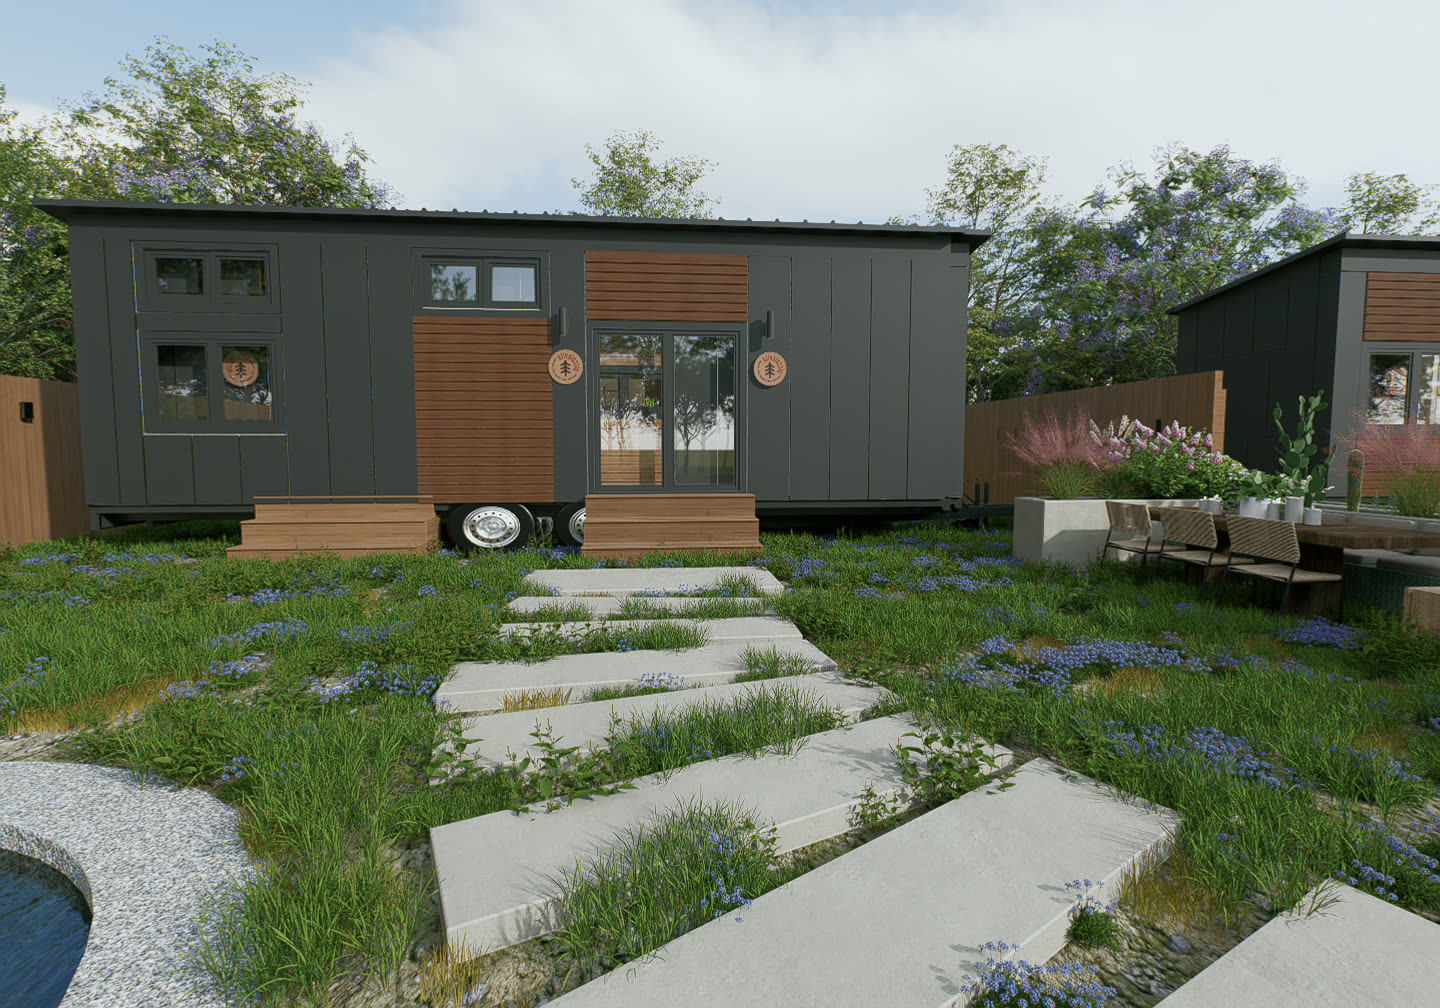
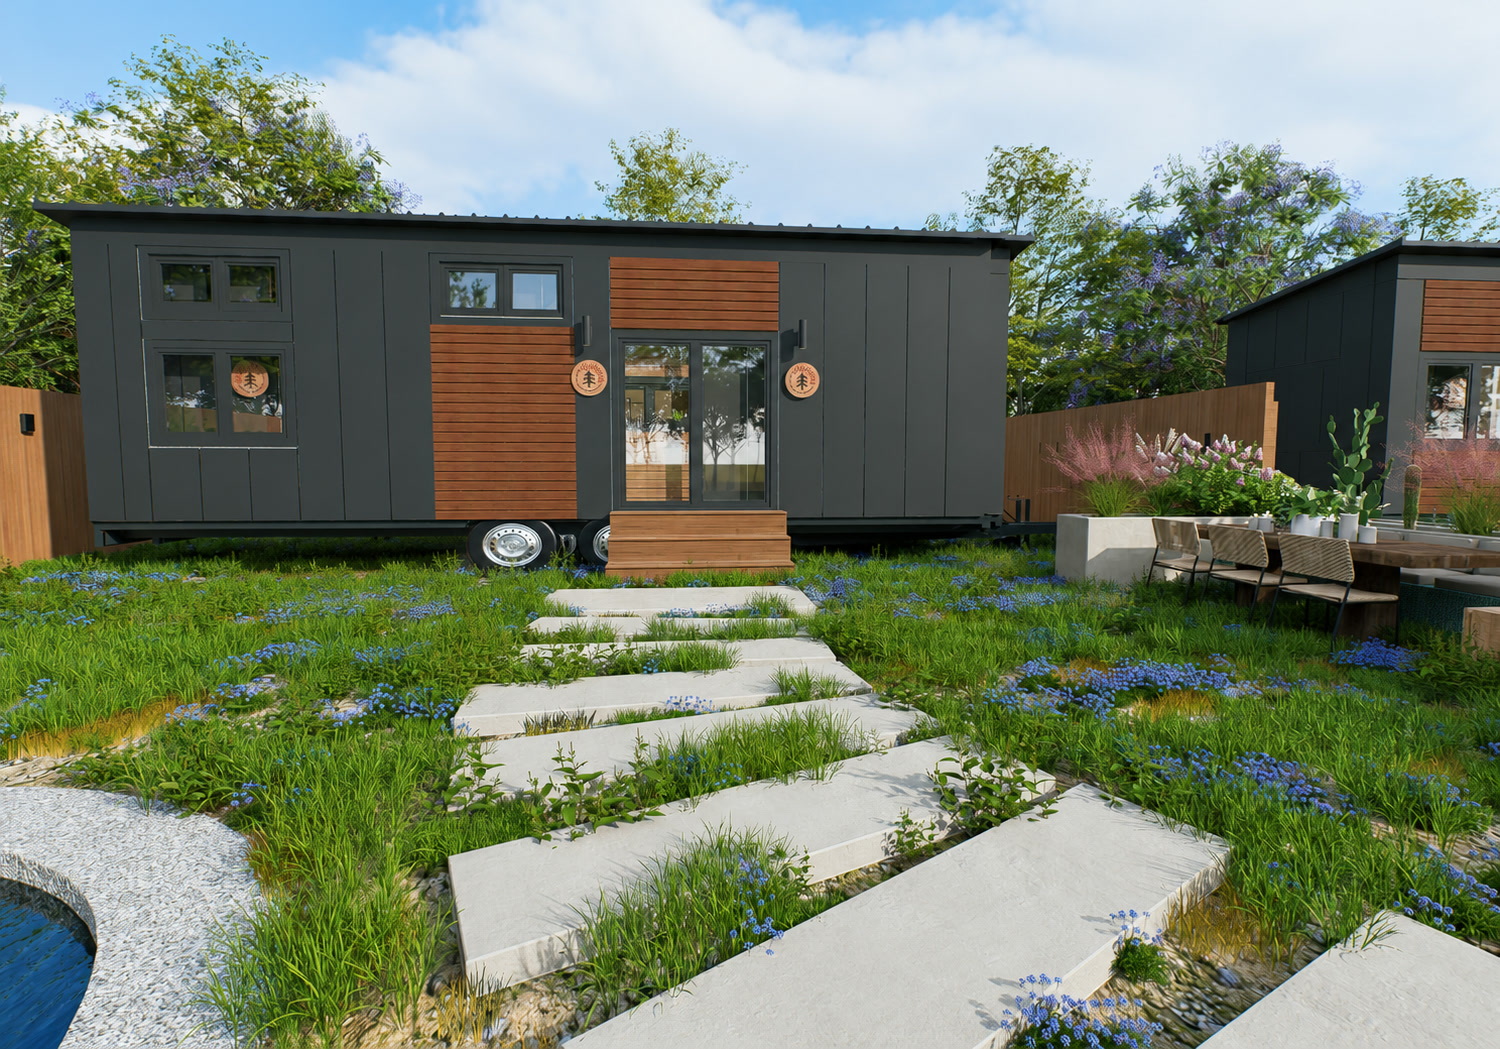
Pico 002 kapak görselini yenile, Honaz galerisindeki mükerrer fotoğrafı kaldır, Örnek Projeler galeri sayfalarında geri dön linkini düzelt
- pico-002-15.jpg yeni düzeltilmiş render ile değiştirildi (kapak/ön görsel)
- Honaz mini-galerisinde ve honaz-galeri.html'de mükerrer honaz-03.jpg kaldırıldı
- 29 örnek proje galeri sayfasında "Modellere Dön" linki artık #modeller yerine #projeler'e gidiyor ve metni "Örnek Projelere Dön" oldu

Claude-Session: https://claude.ai/code/session_01H9L8RCFMdng1wypqmHeWW8

diff --git a/honaz-galeri.html b/honaz-galeri.html
@@ -134,7 +134,7 @@ button { font-family: var(--sans); cursor: pointer; border: none; background: no
   <a href="index.html" class="gtop-logo">PICCOLAVITA</a>
   <div class="gtop-right">
     <a href="https://wa.me/905324521522?text=Merhaba%2C%20Model%2002%20hakkında%20bilgi%20almak%20istiyorum." target="_blank" rel="noopener" class="gwa"><svg viewBox="0 0 24 24"><path d="M12.04 2C6.58 2 2.13 6.45 2.13 11.91c0 1.79.47 3.46 1.36 4.91L2 22l5.31-1.39a9.87 9.87 0 0 0 4.73 1.2h.01c5.46 0 9.91-4.45 9.91-9.91C21.96 6.45 17.5 2 12.04 2zm5.83 14.04c-.25.7-1.45 1.34-2.01 1.42-.51.08-1.16.11-1.87-.12-.43-.13-.98-.31-1.7-.6-2.98-1.29-4.92-4.3-5.07-4.5-.15-.2-1.21-1.6-1.21-3.06s.76-2.16 1.03-2.46c.27-.3.6-.37.8-.37.2 0 .4.002.58.01.18.01.43-.07.67.51.25.6.84 2.06.91 2.21.07.15.12.33.02.53-.1.2-.15.32-.3.49-.15.17-.31.38-.45.51-.15.14-.3.29-.13.58.17.29.76 1.25 1.63 2.02 1.12 1 2.06 1.31 2.36 1.46.3.15.47.13.65-.05.18-.18.74-.86.94-1.16.2-.3.39-.25.66-.15.27.1 1.71.81 2 .96.3.15.49.22.56.34.07.13.07.71-.18 1.4z"/></svg>Bilgi Al</a>
-    <a href="index.html#modeller" class="gtop-back">← Modellere Dön</a>
+    <a href="index.html#projeler" class="gtop-back">← Örnek Projelere Dön</a>
   </div>
 </div>
 
@@ -172,7 +172,6 @@ button { font-family: var(--sans); cursor: pointer; border: none; background: no
 const media = [
   { type: 'img', src: 'assets/images/honaz/honaz-01.png' },
   { type: 'img', src: 'assets/images/honaz/honaz-02.jpg' },
-  { type: 'img', src: 'assets/images/honaz/honaz-03.jpg' },
   { type: 'img', src: 'assets/images/honaz/honaz-04.jpg' },
   { type: 'img', src: 'assets/images/honaz/honaz-05.jpg' },
   { type: 'img', src: 'assets/images/honaz/honaz-06.jpg' },
@@ -256,7 +255,7 @@ render();
 document.addEventListener('keydown', e => {
   if (e.key === 'ArrowLeft') gStep(-1);
   if (e.key === 'ArrowRight') gStep(1);
-  if (e.key === 'Escape') window.location.href = 'index.html#modeller';
+  if (e.key === 'Escape') window.location.href = 'index.html#projeler';
 });
 
 window.PVGallery = {

diff --git a/acipayam-galeri.html b/acipayam-galeri.html
@@ -134,7 +134,7 @@ button { font-family: var(--sans); cursor: pointer; border: none; background: no
   <a href="index.html" class="gtop-logo">PICCOLAVITA</a>
   <div class="gtop-right">
     <a href="https://wa.me/905324521522?text=Merhaba%2C%20Model%2016%20hakkında%20bilgi%20almak%20istiyorum." target="_blank" rel="noopener" class="gwa"><svg viewBox="0 0 24 24"><path d="M12.04 2C6.58 2 2.13 6.45 2.13 11.91c0 1.79.47 3.46 1.36 4.91L2 22l5.31-1.39a9.87 9.87 0 0 0 4.73 1.2h.01c5.46 0 9.91-4.45 9.91-9.91C21.96 6.45 17.5 2 12.04 2zm5.83 14.04c-.25.7-1.45 1.34-2.01 1.42-.51.08-1.16.11-1.87-.12-.43-.13-.98-.31-1.7-.6-2.98-1.29-4.92-4.3-5.07-4.5-.15-.2-1.21-1.6-1.21-3.06s.76-2.16 1.03-2.46c.27-.3.6-.37.8-.37.2 0 .4.002.58.01.18.01.43-.07.67.51.25.6.84 2.06.91 2.21.07.15.12.33.02.53-.1.2-.15.32-.3.49-.15.17-.31.38-.45.51-.15.14-.3.29-.13.58.17.29.76 1.25 1.63 2.02 1.12 1 2.06 1.31 2.36 1.46.3.15.47.13.65-.05.18-.18.74-.86.94-1.16.2-.3.39-.25.66-.15.27.1 1.71.81 2 .96.3.15.49.22.56.34.07.13.07.71-.18 1.4z"/></svg>Bilgi Al</a>
-    <a href="index.html#modeller" class="gtop-back">← Modellere Dön</a>
+    <a href="index.html#projeler" class="gtop-back">← Örnek Projelere Dön</a>
   </div>
 </div>
 
@@ -274,7 +274,7 @@ render();
 document.addEventListener('keydown', e => {
   if (e.key === 'ArrowLeft') gStep(-1);
   if (e.key === 'ArrowRight') gStep(1);
-  if (e.key === 'Escape') window.location.href = 'index.html#modeller';
+  if (e.key === 'Escape') window.location.href = 'index.html#projeler';
 });
 
 window.PVGallery = {

diff --git a/akyaka-galeri.html b/akyaka-galeri.html
@@ -134,7 +134,7 @@ button { font-family: var(--sans); cursor: pointer; border: none; background: no
   <a href="index.html" class="gtop-logo">PICCOLAVITA</a>
   <div class="gtop-right">
     <a href="https://wa.me/905324521522?text=Merhaba%2C%20Model%2019%20hakkında%20bilgi%20almak%20istiyorum." target="_blank" rel="noopener" class="gwa"><svg viewBox="0 0 24 24"><path d="M12.04 2C6.58 2 2.13 6.45 2.13 11.91c0 1.79.47 3.46 1.36 4.91L2 22l5.31-1.39a9.87 9.87 0 0 0 4.73 1.2h.01c5.46 0 9.91-4.45 9.91-9.91C21.96 6.45 17.5 2 12.04 2zm5.83 14.04c-.25.7-1.45 1.34-2.01 1.42-.51.08-1.16.11-1.87-.12-.43-.13-.98-.31-1.7-.6-2.98-1.29-4.92-4.3-5.07-4.5-.15-.2-1.21-1.6-1.21-3.06s.76-2.16 1.03-2.46c.27-.3.6-.37.8-.37.2 0 .4.002.58.01.18.01.43-.07.67.51.25.6.84 2.06.91 2.21.07.15.12.33.02.53-.1.2-.15.32-.3.49-.15.17-.31.38-.45.51-.15.14-.3.29-.13.58.17.29.76 1.25 1.63 2.02 1.12 1 2.06 1.31 2.36 1.46.3.15.47.13.65-.05.18-.18.74-.86.94-1.16.2-.3.39-.25.66-.15.27.1 1.71.81 2 .96.3.15.49.22.56.34.07.13.07.71-.18 1.4z"/></svg>Bilgi Al</a>
-    <a href="index.html#modeller" class="gtop-back">← Modellere Dön</a>
+    <a href="index.html#projeler" class="gtop-back">← Örnek Projelere Dön</a>
   </div>
 </div>
 
@@ -249,7 +249,7 @@ render();
 document.addEventListener('keydown', e => {
   if (e.key === 'ArrowLeft') gStep(-1);
   if (e.key === 'ArrowRight') gStep(1);
-  if (e.key === 'Escape') window.location.href = 'index.html#modeller';
+  if (e.key === 'Escape') window.location.href = 'index.html#projeler';
 });
 
 window.PVGallery = {

diff --git a/banaz-galeri.html b/banaz-galeri.html
@@ -129,7 +129,7 @@ button { font-family: var(--sans); cursor: pointer; border: none; background: no
   <a href="index.html" class="gtop-logo">PICCOLAVITA</a>
   <div class="gtop-right">
     <a href="https://wa.me/905324521522?text=Merhaba%2C%20Model%2025%20hakkında%20bilgi%20almak%20istiyorum." target="_blank" rel="noopener" class="gwa"><svg viewBox="0 0 24 24"><path d="M12.04 2C6.58 2 2.13 6.45 2.13 11.91c0 1.79.47 3.46 1.36 4.91L2 22l5.31-1.39a9.87 9.87 0 0 0 4.73 1.2h.01c5.46 0 9.91-4.45 9.91-9.91C21.96 6.45 17.5 2 12.04 2zm5.83 14.04c-.25.7-1.45 1.34-2.01 1.42-.51.08-1.16.11-1.87-.12-.43-.13-.98-.31-1.7-.6-2.98-1.29-4.92-4.3-5.07-4.5-.15-.2-1.21-1.6-1.21-3.06s.76-2.16 1.03-2.46c.27-.3.6-.37.8-.37.2 0 .4.002.58.01.18.01.43-.07.67.51.25.6.84 2.06.91 2.21.07.15.12.33.02.53-.1.2-.15.32-.3.49-.15.17-.31.38-.45.51-.15.14-.3.29-.13.58.17.29.76 1.25 1.63 2.02 1.12 1 2.06 1.31 2.36 1.46.3.15.47.13.65-.05.18-.18.74-.86.94-1.16.2-.3.39-.25.66-.15.27.1 1.71.81 2 .96.3.15.49.22.56.34.07.13.07.71-.18 1.4z"/></svg>Bilgi Al</a>
-    <a href="index.html#modeller" class="gtop-back">← Modellere Dön</a>
+    <a href="index.html#projeler" class="gtop-back">← Örnek Projelere Dön</a>
   </div>
 </div>
 
@@ -228,7 +228,7 @@ render();
 document.addEventListener('keydown', e => {
   if (e.key === 'ArrowLeft') gStep(-1);
   if (e.key === 'ArrowRight') gStep(1);
-  if (e.key === 'Escape') window.location.href = 'index.html#modeller';
+  if (e.key === 'Escape') window.location.href = 'index.html#projeler';
 });
 
 window.PVGallery = {

diff --git a/barisbey-galeri.html b/barisbey-galeri.html
@@ -134,7 +134,7 @@ button { font-family: var(--sans); cursor: pointer; border: none; background: no
   <a href="index.html" class="gtop-logo">PICCOLAVITA</a>
   <div class="gtop-right">
     <a href="https://wa.me/905324521522?text=Merhaba%2C%20Model%2014%20hakkında%20bilgi%20almak%20istiyorum." target="_blank" rel="noopener" class="gwa"><svg viewBox="0 0 24 24"><path d="M12.04 2C6.58 2 2.13 6.45 2.13 11.91c0 1.79.47 3.46 1.36 4.91L2 22l5.31-1.39a9.87 9.87 0 0 0 4.73 1.2h.01c5.46 0 9.91-4.45 9.91-9.91C21.96 6.45 17.5 2 12.04 2zm5.83 14.04c-.25.7-1.45 1.34-2.01 1.42-.51.08-1.16.11-1.87-.12-.43-.13-.98-.31-1.7-.6-2.98-1.29-4.92-4.3-5.07-4.5-.15-.2-1.21-1.6-1.21-3.06s.76-2.16 1.03-2.46c.27-.3.6-.37.8-.37.2 0 .4.002.58.01.18.01.43-.07.67.51.25.6.84 2.06.91 2.21.07.15.12.33.02.53-.1.2-.15.32-.3.49-.15.17-.31.38-.45.51-.15.14-.3.29-.13.58.17.29.76 1.25 1.63 2.02 1.12 1 2.06 1.31 2.36 1.46.3.15.47.13.65-.05.18-.18.74-.86.94-1.16.2-.3.39-.25.66-.15.27.1 1.71.81 2 .96.3.15.49.22.56.34.07.13.07.71-.18 1.4z"/></svg>Bilgi Al</a>
-    <a href="index.html#modeller" class="gtop-back">← Modellere Dön</a>
+    <a href="index.html#projeler" class="gtop-back">← Örnek Projelere Dön</a>
   </div>
 </div>
 
@@ -238,7 +238,7 @@ render();
 document.addEventListener('keydown', e => {
   if (e.key === 'ArrowLeft') gStep(-1);
   if (e.key === 'ArrowRight') gStep(1);
-  if (e.key === 'Escape') window.location.href = 'index.html#modeller';
+  if (e.key === 'Escape') window.location.href = 'index.html#projeler';
 });
 
 window.PVGallery = {

diff --git a/bodrum-galeri.html b/bodrum-galeri.html
@@ -129,7 +129,7 @@ button { font-family: var(--sans); cursor: pointer; border: none; background: no
   <a href="index.html" class="gtop-logo">PICCOLAVITA</a>
   <div class="gtop-right">
     <a href="https://wa.me/905324521522?text=Merhaba%2C%20Model%2005%20hakkında%20bilgi%20almak%20istiyorum." target="_blank" rel="noopener" class="gwa"><svg viewBox="0 0 24 24"><path d="M12.04 2C6.58 2 2.13 6.45 2.13 11.91c0 1.79.47 3.46 1.36 4.91L2 22l5.31-1.39a9.87 9.87 0 0 0 4.73 1.2h.01c5.46 0 9.91-4.45 9.91-9.91C21.96 6.45 17.5 2 12.04 2zm5.83 14.04c-.25.7-1.45 1.34-2.01 1.42-.51.08-1.16.11-1.87-.12-.43-.13-.98-.31-1.7-.6-2.98-1.29-4.92-4.3-5.07-4.5-.15-.2-1.21-1.6-1.21-3.06s.76-2.16 1.03-2.46c.27-.3.6-.37.8-.37.2 0 .4.002.58.01.18.01.43-.07.67.51.25.6.84 2.06.91 2.21.07.15.12.33.02.53-.1.2-.15.32-.3.49-.15.17-.31.38-.45.51-.15.14-.3.29-.13.58.17.29.76 1.25 1.63 2.02 1.12 1 2.06 1.31 2.36 1.46.3.15.47.13.65-.05.18-.18.74-.86.94-1.16.2-.3.39-.25.66-.15.27.1 1.71.81 2 .96.3.15.49.22.56.34.07.13.07.71-.18 1.4z"/></svg>Bilgi Al</a>
-    <a href="index.html#modeller" class="gtop-back">← Modellere Dön</a>
+    <a href="index.html#projeler" class="gtop-back">← Örnek Projelere Dön</a>
   </div>
 </div>
 
@@ -237,7 +237,7 @@ render();
 document.addEventListener('keydown', e => {
   if (e.key === 'ArrowLeft') gStep(-1);
   if (e.key === 'ArrowRight') gStep(1);
-  if (e.key === 'Escape') window.location.href = 'index.html#modeller';
+  if (e.key === 'Escape') window.location.href = 'index.html#projeler';
 });
 
 window.PVGallery = {

diff --git a/cameli-galeri.html b/cameli-galeri.html
@@ -134,7 +134,7 @@ button { font-family: var(--sans); cursor: pointer; border: none; background: no
   <a href="index.html" class="gtop-logo">PICCOLAVITA</a>
   <div class="gtop-right">
     <a href="https://wa.me/905324521522?text=Merhaba%2C%20Model%2007%20hakkında%20bilgi%20almak%20istiyorum." target="_blank" rel="noopener" class="gwa"><svg viewBox="0 0 24 24"><path d="M12.04 2C6.58 2 2.13 6.45 2.13 11.91c0 1.79.47 3.46 1.36 4.91L2 22l5.31-1.39a9.87 9.87 0 0 0 4.73 1.2h.01c5.46 0 9.91-4.45 9.91-9.91C21.96 6.45 17.5 2 12.04 2zm5.83 14.04c-.25.7-1.45 1.34-2.01 1.42-.51.08-1.16.11-1.87-.12-.43-.13-.98-.31-1.7-.6-2.98-1.29-4.92-4.3-5.07-4.5-.15-.2-1.21-1.6-1.21-3.06s.76-2.16 1.03-2.46c.27-.3.6-.37.8-.37.2 0 .4.002.58.01.18.01.43-.07.67.51.25.6.84 2.06.91 2.21.07.15.12.33.02.53-.1.2-.15.32-.3.49-.15.17-.31.38-.45.51-.15.14-.3.29-.13.58.17.29.76 1.25 1.63 2.02 1.12 1 2.06 1.31 2.36 1.46.3.15.47.13.65-.05.18-.18.74-.86.94-1.16.2-.3.39-.25.66-.15.27.1 1.71.81 2 .96.3.15.49.22.56.34.07.13.07.71-.18 1.4z"/></svg>Bilgi Al</a>
-    <a href="index.html#modeller" class="gtop-back">← Modellere Dön</a>
+    <a href="index.html#projeler" class="gtop-back">← Örnek Projelere Dön</a>
   </div>
 </div>
 
@@ -255,7 +255,7 @@ render();
 document.addEventListener('keydown', e => {
   if (e.key === 'ArrowLeft') gStep(-1);
   if (e.key === 'ArrowRight') gStep(1);
-  if (e.key === 'Escape') window.location.href = 'index.html#modeller';
+  if (e.key === 'Escape') window.location.href = 'index.html#projeler';
 });
 
 window.PVGallery = {

diff --git a/cesme2-galeri.html b/cesme2-galeri.html
@@ -134,7 +134,7 @@ button { font-family: var(--sans); cursor: pointer; border: none; background: no
   <a href="index.html" class="gtop-logo">PICCOLAVITA</a>
   <div class="gtop-right">
     <a href="https://wa.me/905324521522?text=Merhaba%2C%20Model%2017%20hakkında%20bilgi%20almak%20istiyorum." target="_blank" rel="noopener" class="gwa"><svg viewBox="0 0 24 24"><path d="M12.04 2C6.58 2 2.13 6.45 2.13 11.91c0 1.79.47 3.46 1.36 4.91L2 22l5.31-1.39a9.87 9.87 0 0 0 4.73 1.2h.01c5.46 0 9.91-4.45 9.91-9.91C21.96 6.45 17.5 2 12.04 2zm5.83 14.04c-.25.7-1.45 1.34-2.01 1.42-.51.08-1.16.11-1.87-.12-.43-.13-.98-.31-1.7-.6-2.98-1.29-4.92-4.3-5.07-4.5-.15-.2-1.21-1.6-1.21-3.06s.76-2.16 1.03-2.46c.27-.3.6-.37.8-.37.2 0 .4.002.58.01.18.01.43-.07.67.51.25.6.84 2.06.91 2.21.07.15.12.33.02.53-.1.2-.15.32-.3.49-.15.17-.31.38-.45.51-.15.14-.3.29-.13.58.17.29.76 1.25 1.63 2.02 1.12 1 2.06 1.31 2.36 1.46.3.15.47.13.65-.05.18-.18.74-.86.94-1.16.2-.3.39-.25.66-.15.27.1 1.71.81 2 .96.3.15.49.22.56.34.07.13.07.71-.18 1.4z"/></svg>Bilgi Al</a>
-    <a href="index.html#modeller" class="gtop-back">← Modellere Dön</a>
+    <a href="index.html#projeler" class="gtop-back">← Örnek Projelere Dön</a>
   </div>
 </div>
 
@@ -252,7 +252,7 @@ render();
 document.addEventListener('keydown', e => {
   if (e.key === 'ArrowLeft') gStep(-1);
   if (e.key === 'ArrowRight') gStep(1);
-  if (e.key === 'Escape') window.location.href = 'index.html#modeller';
+  if (e.key === 'Escape') window.location.href = 'index.html#projeler';
 });
 
 window.PVGallery = {

diff --git a/comfort-galeri.html b/comfort-galeri.html
@@ -134,7 +134,7 @@ button { font-family: var(--sans); cursor: pointer; border: none; background: no
   <a href="index.html" class="gtop-logo">PICCOLAVITA</a>
   <div class="gtop-right">
     <a href="https://wa.me/905324521522?text=Merhaba%2C%20Model%2006%20hakkında%20bilgi%20almak%20istiyorum." target="_blank" rel="noopener" class="gwa"><svg viewBox="0 0 24 24"><path d="M12.04 2C6.58 2 2.13 6.45 2.13 11.91c0 1.79.47 3.46 1.36 4.91L2 22l5.31-1.39a9.87 9.87 0 0 0 4.73 1.2h.01c5.46 0 9.91-4.45 9.91-9.91C21.96 6.45 17.5 2 12.04 2zm5.83 14.04c-.25.7-1.45 1.34-2.01 1.42-.51.08-1.16.11-1.87-.12-.43-.13-.98-.31-1.7-.6-2.98-1.29-4.92-4.3-5.07-4.5-.15-.2-1.21-1.6-1.21-3.06s.76-2.16 1.03-2.46c.27-.3.6-.37.8-.37.2 0 .4.002.58.01.18.01.43-.07.67.51.25.6.84 2.06.91 2.21.07.15.12.33.02.53-.1.2-.15.32-.3.49-.15.17-.31.38-.45.51-.15.14-.3.29-.13.58.17.29.76 1.25 1.63 2.02 1.12 1 2.06 1.31 2.36 1.46.3.15.47.13.65-.05.18-.18.74-.86.94-1.16.2-.3.39-.25.66-.15.27.1 1.71.81 2 .96.3.15.49.22.56.34.07.13.07.71-.18 1.4z"/></svg>Bilgi Al</a>
-    <a href="index.html#modeller" class="gtop-back">← Modellere Dön</a>
+    <a href="index.html#projeler" class="gtop-back">← Örnek Projelere Dön</a>
   </div>
 </div>
 
@@ -257,7 +257,7 @@ render();
 document.addEventListener('keydown', e => {
   if (e.key === 'ArrowLeft') gStep(-1);
   if (e.key === 'ArrowRight') gStep(1);
-  if (e.key === 'Escape') window.location.href = 'index.html#modeller';
+  if (e.key === 'Escape') window.location.href = 'index.html#projeler';
 });
 
 window.PVGallery = {

diff --git a/dim-galeri.html b/dim-galeri.html
@@ -134,7 +134,7 @@ button { font-family: var(--sans); cursor: pointer; border: none; background: no
   <a href="index.html" class="gtop-logo">PICCOLAVITA</a>
   <div class="gtop-right">
     <a href="https://wa.me/905324521522?text=Merhaba%2C%20Model%2029%20hakkında%20bilgi%20almak%20istiyorum." target="_blank" rel="noopener" class="gwa"><svg viewBox="0 0 24 24"><path d="M12.04 2C6.58 2 2.13 6.45 2.13 11.91c0 1.79.47 3.46 1.36 4.91L2 22l5.31-1.39a9.87 9.87 0 0 0 4.73 1.2h.01c5.46 0 9.91-4.45 9.91-9.91C21.96 6.45 17.5 2 12.04 2zm5.83 14.04c-.25.7-1.45 1.34-2.01 1.42-.51.08-1.16.11-1.87-.12-.43-.13-.98-.31-1.7-.6-2.98-1.29-4.92-4.3-5.07-4.5-.15-.2-1.21-1.6-1.21-3.06s.76-2.16 1.03-2.46c.27-.3.6-.37.8-.37.2 0 .4.002.58.01.18.01.43-.07.67.51.25.6.84 2.06.91 2.21.07.15.12.33.02.53-.1.2-.15.32-.3.49-.15.17-.31.38-.45.51-.15.14-.3.29-.13.58.17.29.76 1.25 1.63 2.02 1.12 1 2.06 1.31 2.36 1.46.3.15.47.13.65-.05.18-.18.74-.86.94-1.16.2-.3.39-.25.66-.15.27.1 1.71.81 2 .96.3.15.49.22.56.34.07.13.07.71-.18 1.4z"/></svg>Bilgi Al</a>
-    <a href="index.html#modeller" class="gtop-back">← Modellere Dön</a>
+    <a href="index.html#projeler" class="gtop-back">← Örnek Projelere Dön</a>
   </div>
 </div>
 
@@ -234,7 +234,7 @@ render();
 document.addEventListener('keydown', e => {
   if (e.key === 'ArrowLeft') gStep(-1);
   if (e.key === 'ArrowRight') gStep(1);
-  if (e.key === 'Escape') window.location.href = 'index.html#modeller';
+  if (e.key === 'Escape') window.location.href = 'index.html#projeler';
 });
 
 window.PVGallery = {

diff --git a/foca-galeri.html b/foca-galeri.html
@@ -134,7 +134,7 @@ button { font-family: var(--sans); cursor: pointer; border: none; background: no
   <a href="index.html" class="gtop-logo">PICCOLAVITA</a>
   <div class="gtop-right">
     <a href="https://wa.me/905324521522?text=Merhaba%2C%20Model%2004%20hakkında%20bilgi%20almak%20istiyorum." target="_blank" rel="noopener" class="gwa"><svg viewBox="0 0 24 24"><path d="M12.04 2C6.58 2 2.13 6.45 2.13 11.91c0 1.79.47 3.46 1.36 4.91L2 22l5.31-1.39a9.87 9.87 0 0 0 4.73 1.2h.01c5.46 0 9.91-4.45 9.91-9.91C21.96 6.45 17.5 2 12.04 2zm5.83 14.04c-.25.7-1.45 1.34-2.01 1.42-.51.08-1.16.11-1.87-.12-.43-.13-.98-.31-1.7-.6-2.98-1.29-4.92-4.3-5.07-4.5-.15-.2-1.21-1.6-1.21-3.06s.76-2.16 1.03-2.46c.27-.3.6-.37.8-.37.2 0 .4.002.58.01.18.01.43-.07.67.51.25.6.84 2.06.91 2.21.07.15.12.33.02.53-.1.2-.15.32-.3.49-.15.17-.31.38-.45.51-.15.14-.3.29-.13.58.17.29.76 1.25 1.63 2.02 1.12 1 2.06 1.31 2.36 1.46.3.15.47.13.65-.05.18-.18.74-.86.94-1.16.2-.3.39-.25.66-.15.27.1 1.71.81 2 .96.3.15.49.22.56.34.07.13.07.71-.18 1.4z"/></svg>Bilgi Al</a>
-    <a href="index.html#modeller" class="gtop-back">← Modellere Dön</a>
+    <a href="index.html#projeler" class="gtop-back">← Örnek Projelere Dön</a>
   </div>
 </div>
 
@@ -242,7 +242,7 @@ render();
 document.addEventListener('keydown', e => {
   if (e.key === 'ArrowLeft') gStep(-1);
   if (e.key === 'ArrowRight') gStep(1);
-  if (e.key === 'Escape') window.location.href = 'index.html#modeller';
+  if (e.key === 'Escape') window.location.href = 'index.html#projeler';
 });
 
 window.PVGallery = {

diff --git a/honazkizilyer-galeri.html b/honazkizilyer-galeri.html
@@ -134,7 +134,7 @@ button { font-family: var(--sans); cursor: pointer; border: none; background: no
   <a href="index.html" class="gtop-logo">PICCOLAVITA</a>
   <div class="gtop-right">
     <a href="https://wa.me/905324521522?text=Merhaba%2C%20Model%2023%20hakkında%20bilgi%20almak%20istiyorum." target="_blank" rel="noopener" class="gwa"><svg viewBox="0 0 24 24"><path d="M12.04 2C6.58 2 2.13 6.45 2.13 11.91c0 1.79.47 3.46 1.36 4.91L2 22l5.31-1.39a9.87 9.87 0 0 0 4.73 1.2h.01c5.46 0 9.91-4.45 9.91-9.91C21.96 6.45 17.5 2 12.04 2zm5.83 14.04c-.25.7-1.45 1.34-2.01 1.42-.51.08-1.16.11-1.87-.12-.43-.13-.98-.31-1.7-.6-2.98-1.29-4.92-4.3-5.07-4.5-.15-.2-1.21-1.6-1.21-3.06s.76-2.16 1.03-2.46c.27-.3.6-.37.8-.37.2 0 .4.002.58.01.18.01.43-.07.67.51.25.6.84 2.06.91 2.21.07.15.12.33.02.53-.1.2-.15.32-.3.49-.15.17-.31.38-.45.51-.15.14-.3.29-.13.58.17.29.76 1.25 1.63 2.02 1.12 1 2.06 1.31 2.36 1.46.3.15.47.13.65-.05.18-.18.74-.86.94-1.16.2-.3.39-.25.66-.15.27.1 1.71.81 2 .96.3.15.49.22.56.34.07.13.07.71-.18 1.4z"/></svg>Bilgi Al</a>
-    <a href="index.html#modeller" class="gtop-back">← Modellere Dön</a>
+    <a href="index.html#projeler" class="gtop-back">← Örnek Projelere Dön</a>
   </div>
 </div>
 
@@ -238,7 +238,7 @@ render();
 document.addEventListener('keydown', e => {
   if (e.key === 'ArrowLeft') gStep(-1);
   if (e.key === 'ArrowRight') gStep(1);
-  if (e.key === 'Escape') window.location.href = 'index.html#modeller';
+  if (e.key === 'Escape') window.location.href = 'index.html#projeler';
 });
 
 window.PVGallery = {
